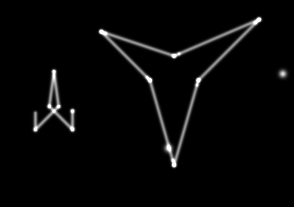
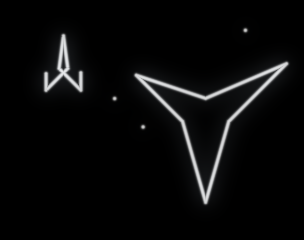
Even beam (an ideal vector display), afterglow-off fix, greyed-out menu items; README: perfect vs faithful
- Tube > Even beam (off): every point as bright and thin as a line, no corner glow, overlapping
  light taking the brighter instead of adding up; dots such as stars stay visible
- Afterglow off: a spot holds for the game's frame + 2 ms (was 34 ms: double copies of moving objects)
- Menu items that only matter while their feature is on are greyed out when it is off
- README chapter 1: real / no analog delays / with the delays, then a perfect vector display next to
  the Vectrex's character

diff --git a/src/frontend/vectrex_emu.py b/src/frontend/vectrex_emu.py
@@ -1030,7 +1030,7 @@ class App:
                 print('renderer unavailable (%s): using the Tk canvas' % e)
         # display settings are kept in Vectrex_EMU.conf; each menu's Reset ... settings to default restores its own
         self.look_keys = [k for k in ('phosphor', 'bloom', 'trail_on', 'trail', 'wob_on', 'wob_strength',
-                                      'mains_hz', 'bend_on', 'bend_strength', 'bend_type', 'curve_on', 'halo_on', 'halo_k', 'phos_spread', 'phos_grow', 'phos_smooth', 'line_gap',
+                                      'mains_hz', 'bend_on', 'bend_strength', 'bend_type', 'curve_on', 'halo_on', 'halo_k', 'even_beam', 'phos_spread', 'phos_grow', 'phos_smooth', 'line_gap',
                                       'art_on', 'art_tint', 'art_room', 'art_print', 'art_parallax',
                                       'scr_on', 'scr_wear', 'scr_damage', 'scr_glint')
                           if self.ren and hasattr(self.ren, k)]
@@ -1230,6 +1230,7 @@ class App:
         R = lambda: self.ren
         C = lambda: self.run.crt
         self.menu_checks = []                                   # (variable, current state) to refresh
+        self.menu_deps = []                                     # (menu, entry, is it usable now) - greyed out when not
         def mac_key(key):
             """macOS: the menus show the Command shortcuts (as text: Tk's bindings do the work, so a key
             never fires twice through a menu key equivalent)"""
@@ -1244,10 +1245,18 @@ class App:
         def item(menu, label, key, cmd):
             key = mac_key(key)
             menu.add_command(label=label, accelerator=key, command=cmd)
+        def dep(menu, on):
+            """the entry just added only matters while `on()` (its feature is on): greyed out otherwise"""
+            self.menu_deps.append((menu, menu.index('end'), on))
         def refresh():
             for v, get in self.menu_checks:
                 try:
                     v.set(bool(get()))
+                except Exception:   # noqa
+                    pass
+            for menu, i, on in self.menu_deps:
+                try:
+                    menu.entryconfigure(i, state='normal' if on() else 'disabled')
                 except Exception:   # noqa
                     pass
         def fill(mb):
@@ -1298,30 +1307,33 @@ class App:
             item(m, 'Reset display settings to default', '', self.reset_display)
             m = tk.Menu(mb, tearoff=0, postcommand=refresh); mb.add_cascade(label='Tube', menu=m)
             check(m, 'Phosphor (afterglow and bloom)', '', lambda: R().phosphor, self.toggle_phosphor)
-            item(m, 'Bloom...', '', lambda: self.slider('bloom'))
-            check(m, 'Afterglow', '', lambda: R().trail_on, lambda: self.flip(self.ren, 'trail_on'))
-            item(m, 'Afterglow length...', '', lambda: self.slider('trail'))
-            item(m, 'Afterglow joining...', '', lambda: self.slider('phos_grow'))
-            item(m, 'Afterglow overlap...', '', lambda: self.slider('phos_smooth'))
+            PH = lambda: R().phosphor; AG = lambda: R().phosphor and R().trail_on
+            item(m, 'Bloom...', '', lambda: self.slider('bloom')); dep(m, PH)
+            check(m, 'Afterglow', '', lambda: R().trail_on, lambda: self.flip(self.ren, 'trail_on')); dep(m, PH)
+            item(m, 'Afterglow length...', '', lambda: self.slider('trail')); dep(m, AG)
+            item(m, 'Afterglow joining...', '', lambda: self.slider('phos_grow')); dep(m, AG)
+            item(m, 'Afterglow overlap...', '', lambda: self.slider('phos_smooth')); dep(m, AG)
             check(m, 'Curved tube', '', lambda: R().curve_on, lambda: self.flip(self.ren, 'curve_on'))
             check(m, 'Corner glow (halo where the beam rests)', '', lambda: R().halo_on, lambda: self.flip(self.ren, 'halo_on'))
-            item(m, 'Corner glow strength...', '', lambda: self.slider('halo_k'))
+            dep(m, lambda: not R().even_beam)
+            item(m, 'Corner glow strength...', '', lambda: self.slider('halo_k')); dep(m, lambda: R().halo_on and not R().even_beam)
+            check(m, 'Even beam (an ideal vector display)', '', lambda: R().even_beam, lambda: self.flip(self.ren, 'even_beam'))
             item(m, 'Line gaps (analog delay)...', '', lambda: self.slider('line_gap'))
             m.add_separator()
             check(m, 'Mains hum wobble', '', lambda: R().wob_on, self.toggle_wobble)
-            item(m, 'Wobble strength...', '', lambda: self.slider('wob_strength'))
+            item(m, 'Wobble strength...', '', lambda: self.slider('wob_strength')); dep(m, lambda: R().wob_on)
             mh = tk.Menu(m, tearoff=0, postcommand=refresh)
-            m.add_cascade(label='Mains', menu=mh)
+            m.add_cascade(label='Mains', menu=mh); dep(m, lambda: R().wob_on)
             for hz, where in zip(vecrender.MAINS_HZ, ('Europe, most of the world', 'USA, Canada, ...')):
                 check(mh, '%d Hz (%s)' % (hz, where), '', lambda hz=hz: R().mains_hz == hz,
                       lambda hz=hz: self.set_mains(hz))
             check(m, 'Brightness bending', '', lambda: R().bend_on, lambda: self.flip(self.ren, 'bend_on'))
             bt = tk.Menu(m, tearoff=0, postcommand=refresh)
-            m.add_cascade(label='Bending type', menu=bt)
+            m.add_cascade(label='Bending type', menu=bt); dep(m, lambda: R().bend_on)
             for i, name in enumerate(vecrender.BEND_TYPES):
                 check(bt, name, '', lambda i=i: R().bend_type % len(vecrender.BEND_TYPES) == i,
                       lambda i=i: self.set_bend_type(i))
-            item(m, 'Bending strength...', '', lambda: self.slider('bend_strength'))
+            item(m, 'Bending strength...', '', lambda: self.slider('bend_strength')); dep(m, lambda: R().bend_on)
             m.add_separator()
             item(m, 'Reset tube settings to default', '', self.reset_tube)
             m = tk.Menu(mb, tearoff=0, postcommand=refresh); mb.add_cascade(label='Overlay', menu=m)
@@ -1331,19 +1343,21 @@ class App:
             item(m, 'Choose overlay...', '', self.choose_art)
             item(m, 'No overlay for this game', '', self.no_art)
             m.add_separator()
-            item(m, 'Tint strength...', '', lambda: self.slider('art_tint'))
-            item(m, 'Room light...', '', lambda: self.slider('art_room'))
-            item(m, 'Printed art brightness...', '', lambda: self.slider('art_print'))
-            check(m, 'Parallax (seen from the usual height)', '', lambda: A('art_parallax', False), lambda: self.flip(self.ren, 'art_parallax'))
+            OV = lambda: bool(A('art_on', False) and A('art', None))           # (an overlay is shown)
+            SC = lambda: OV() and A('scr_on', False)
+            item(m, 'Tint strength...', '', lambda: self.slider('art_tint')); dep(m, OV)
+            item(m, 'Room light...', '', lambda: self.slider('art_room')); dep(m, OV)
+            item(m, 'Printed art brightness...', '', lambda: self.slider('art_print')); dep(m, OV)
+            check(m, 'Parallax (seen from the usual height)', '', lambda: A('art_parallax', False), lambda: self.flip(self.ren, 'art_parallax')); dep(m, OV)
             if getattr(self.ren, 'gprog', None):
                 m.add_separator()
-                check(m, 'Scratches (decades of handling)', '', lambda: A('scr_on', False), self.toggle_scratches)
-                item(m, 'Wear (fine scratches)...', '', lambda: self.slider('scr_wear'))
-                item(m, 'Damage (larger, deeper scratches)...', '', lambda: self.slider('scr_damage'))
-                item(m, 'Glint strength...', '', lambda: self.slider('scr_glint'))
-                item(m, 'New random scratches', '', self.new_scratches)
+                check(m, 'Scratches (decades of handling)', '', lambda: A('scr_on', False), self.toggle_scratches); dep(m, OV)
+                item(m, 'Wear (fine scratches)...', '', lambda: self.slider('scr_wear')); dep(m, SC)
+                item(m, 'Damage (larger, deeper scratches)...', '', lambda: self.slider('scr_damage')); dep(m, SC)
+                item(m, 'Glint strength...', '', lambda: self.slider('scr_glint')); dep(m, SC)
+                item(m, 'New random scratches', '', self.new_scratches); dep(m, SC)
                 m.add_separator()
-            pm = tk.Menu(m, tearoff=0); m.add_cascade(label='Position and size (this overlay)', menu=pm)
+            pm = tk.Menu(m, tearoff=0); m.add_cascade(label='Position and size (this overlay)', menu=pm); dep(m, OV)
             item(pm, 'Left / right...', '', lambda: self.slider('art_dx'))
             item(pm, 'Up / down...', '', lambda: self.slider('art_dy'))
             item(pm, 'Size...', '', lambda: self.slider('art_scale'))
@@ -1352,9 +1366,10 @@ class App:
             item(m, 'Reset overlay settings to default', '', self.reset_overlay)
             m = tk.Menu(mb, tearoff=0, postcommand=refresh); mb.add_cascade(label='Sound', menu=m)
             check(m, 'Vectrex buzz', '', lambda: C().buzz_on, lambda: self.flip(self.run.crt, 'buzz_on'))
-            item(m, 'Buzz volume...', '', lambda: self.slider('buzz_vol'))
+            item(m, 'Buzz volume...', '', lambda: self.slider('buzz_vol')); dep(m, lambda: C().buzz_on)
             check(m, 'Vectrex speaker', '', lambda: C().speaker_on, lambda: self.flip(self.run.crt, 'speaker_on'))
             sm = tk.Menu(m, tearoff=0); m.add_cascade(label='Speech module (VecVoice / VecVox)', menu=sm)
+            dep(m, lambda: self.speech != 'off')                        # (only with a module in port 2)
             item(sm, 'Volume...', 'Ctrl+PgDn / Ctrl+PgUp', lambda: self.slider('voice_vol'))
             check(sm, 'Full-range speakers', '', lambda: C().voice_full, lambda: self.set_voice_full(True))
             check(sm, 'Small speaker', '', lambda: not C().voice_full, lambda: self.set_voice_full(False))
@@ -2652,7 +2667,7 @@ class App:
     LOOK_LABELS = dict(volume=('volume', '%d %%'), bloom=('bloom', '%.2f'), trail=('afterglow length', 'x%.2f'),
                        wob_strength=('wobble strength', '%.3f px'), mains_hz=('mains', '%d Hz'), bend_strength=('bending strength', '%.2f'),
                        buzz_vol=('buzz volume', '%.3f'), phosphor=('phosphor', None), trail_on=('afterglow', None),
-                       curve_on=('curved tube', None), halo_on=('corner glow', None), halo_k=('corner glow strength', '%.3f'), phos_spread=('afterglow softness', '%.2f'), phos_grow=('afterglow joining', '%.2f'), phos_smooth=('afterglow overlap', '%.2f px'), line_gap=('line gaps (stop delay)', '%.1f cycles'), art_on=('overlay', None), art_tint=('overlay tint strength', '%.2f'), art_room=('overlay room light', '%.2f'), art_print=('overlay printed art brightness', '%.2f'), art_parallax=('overlay parallax', None), scr_on=('overlay scratches', None), scr_wear=('scratches: wear', 'x%.2f'), scr_damage=('scratches: damage', 'x%.2f'), scr_glint=('scratches: glint strength', 'x%.2f'), art_dx=('overlay left / right', '%+.3f'), art_dy=('overlay up / down', '%+.3f'), art_scale=('overlay size', 'x%.3f'), wob_on=('mains hum wobble', None), bend_on=('brightness bending', None),
+                       curve_on=('curved tube', None), halo_on=('corner glow', None), halo_k=('corner glow strength', '%.3f'), even_beam=('even beam (an ideal vector display)', None), phos_spread=('afterglow softness', '%.2f'), phos_grow=('afterglow joining', '%.2f'), phos_smooth=('afterglow overlap', '%.2f px'), line_gap=('line gaps (stop delay)', '%.1f cycles'), art_on=('overlay', None), art_tint=('overlay tint strength', '%.2f'), art_room=('overlay room light', '%.2f'), art_print=('overlay printed art brightness', '%.2f'), art_parallax=('overlay parallax', None), scr_on=('overlay scratches', None), scr_wear=('scratches: wear', 'x%.2f'), scr_damage=('scratches: damage', 'x%.2f'), scr_glint=('scratches: glint strength', 'x%.2f'), art_dx=('overlay left / right', '%+.3f'), art_dy=('overlay up / down', '%+.3f'), art_scale=('overlay size', 'x%.3f'), wob_on=('mains hum wobble', None), bend_on=('brightness bending', None),
                        buzz_on=('Vectrex buzz', None), speaker_on=('Vectrex speaker', None), voice_vol=('speech module volume', '%d %%'), voice_full=('speech module speakers', None))
     def show_look(self, what=None, obj=None):
         """save, and show only the setting that changed in the title bar for 2 s"""

diff --git a/src/frontend/vecrender.py b/src/frontend/vecrender.py
@@ -635,7 +635,7 @@ BEND_TYPES = ['grow', 'shift', 'grow+shift']
 PHOS_GAIN = 1.0 / (1.0 - 0.40)  # a still picture as bright as with the earlier model (afterglow 0.40)
 PHOS_HOLD = 0.021               # a lit spot is at full brightness at least this long (a 50 fps frame;
                                 #  longer for a slower game: see hold())
-PHOS_HOLD_OFF = 0.034           # trail off: a spot holds until the next frames, then is gone
+PHOS_HOLD_OFF = 0.021           # trail off: a spot holds until the game draws it again, then is gone
 PHOS_A = ((0.1404, 0.0454), (0.0582, 0.350))   # the measured afterglow (share, time constant s)
 # the afterglow joins up: a fading spot (older than the hold) spreads to its neighbours each display frame,
 # keeping PHOS_GROW of its brightness, so the copies a moving object leaves join into one smooth trail -
@@ -926,6 +926,8 @@ class GLBloomRenderer(GLRenderer):
         self.bend_type = 0           # index into BEND_TYPES
         self.curve_on = True         # the curved tube (C, see CURVE_SHADER; on by default: the owner's choice)
         self.halo_on = True          # the glow around resting spots (Tube > Corner glow, see BEAM_HALO_W)
+        self.even_beam = False       # Tube > Even beam: an ideal vector display - every point as bright and wide as a
+                                     #  line, no corner glow, overlapping light not adding up (off: the real tube)
         self.halo_k = BEAM_HALO_K    # its brightness (Tube > Corner glow strength)
         self.phos_spread = PHOS_SPREAD  # the afterglow's softness (0; not in the menu)
         self.phos_grow = PHOS_GROW      # how the afterglow joins up (Tube > Afterglow joining)
@@ -1292,7 +1294,7 @@ class GLBloomRenderer(GLRenderer):
             return None
         halos = [(ln[0], ln[1], ln[2], ln[3], (ln[4] & 127) | 256) + tuple(ln[5:]) for ln in lines
                  if len(ln) > 5 and ln[0] == ln[2] and ln[1] == ln[3] and ln[5] >= 64 and (ln[4] & 127)] \
-            if getattr(self, 'halo_on', True) else None
+            if getattr(self, 'halo_on', True) and not getattr(self, 'even_beam', False) else None
         if halos:
             lines = halos + list(lines)                    # (drawn first: the spots and lines go over them)
         n = len(lines)
@@ -1375,6 +1377,8 @@ class GLBloomRenderer(GLRenderer):
                 bl = min(1.0, max(0.0, (cyc * zk - BEAM_BLOOM_E0) / (BEAM_BLOOM_E1 - BEAM_BLOOM_E0)))
                 fw = BEAM_HALO_W * zw * (1.0 + (BEAM_BLOOM_W - 1.0) * bl) * cwidth
                 k = getattr(self, 'halo_k', BEAM_HALO_K) * min(1.0, cyc / BEAM_HALO_C) * (1.0 + (BEAM_BLOOM_H - 1.0) * bl)
+            elif getattr(self, 'even_beam', False):       # an ideal display: lines and points alike
+                k = BEAM_LINE
             elif lp / gp > 0.05:
                 e = cyc / (lp / gp)                        # cycles per game pixel
                 k = BEAM_LINE * (1.0 - BEAM_SPEED * exp(-e / 0.8))   # fast sweeps slightly fainter
@@ -1414,12 +1418,13 @@ class GLBloomRenderer(GLRenderer):
     # ---- the phosphor in real time (see PHOS_GAIN)
     def hold(self):
         """how long a lit spot stays at full brightness: until the game draws it again - its longest
-        recent frame (at least PHOS_HOLD) plus 1 ms; afterglow off: plus a display frame, then dark.
+        recent frame (at least PHOS_HOLD) plus 1 ms; afterglow off: the same plus 2 ms, then dark at once
+        (longer kept the last copy of a moving object at full brightness next to the new one).
         (A 40 fps game redraws only every 25 ms: a fixed 21 ms hold dimmed what it drew first.)"""
         per = min(0.1, max(getattr(self, 'periods', None) or [0.02]))
         if self.trail_on:
             return max(PHOS_HOLD, per + 0.001)
-        return max(PHOS_HOLD_OFF, per + 0.014)
+        return max(PHOS_HOLD_OFF, per + 0.002)
 
     def _phos_uniforms(self, u):
         """the afterglow curve's settings for a shader using PHOS_FUNC"""
@@ -1458,7 +1463,10 @@ class GLBloomRenderer(GLRenderer):
             self.BindFB(GL_FRAMEBUFFER, self.out); gl.glViewport(0, 0, w, h)
             gl.glClearColor(0, 0, 0, 1); gl.glClear(GL_COLOR_BUFFER_BIT)
             gl.glEnable(GL_BLEND); gl.glBlendFunc(GL_SRC_ALPHA, GL_ONE)
+            even = getattr(self, 'even_beam', False) and self.BlendEq
+            if even: self.BlendEq(0x8008)                 # (even beam: the brighter light, not the sum)
             self._draw_built(self._build(imm) if imm else self.last)
+            if even: self.BlendEq(0x8006)
             self.young = []; self.T_prev = T
             self._art()
             self._hud()
@@ -1471,7 +1479,7 @@ class GLBloomRenderer(GLRenderer):
         self.BindFB(GL_FRAMEBUFFER, self.F[1]); gl.glViewport(0, 0, w, h)
         gl.glClearColor(0, 0, 0, 0); gl.glClear(GL_COLOR_BUFFER_BIT)
         gl.glEnable(GL_BLEND); self.BlendFuncSep(GL_ONE, GL_ONE, GL_ONE, GL_ONE)
-        self.BlendEqSep(0x8006, 0x8008)                   # (add, max)
+        self.BlendEqSep(0x8008 if getattr(self, 'even_beam', False) else 0x8006, 0x8008)   # (add - even beam: max -, max)
         keep = []
         for f in self.young:
             b, t0, t1, done = f
@@ -1482,7 +1490,7 @@ class GLBloomRenderer(GLRenderer):
         if imm:                                           # (imm_max: one even line, no bright joints)
             if getattr(self, 'imm_max', False): self.BlendEq(0x8008)
             self._draw_built(self._build(imm, load=False), 0.0, 1.0, imm=True)
-        self.BlendEq(0x8006)
+        self.BlendEq(0x8006)                              # (and back to adding, for everything else)
         self.young = keep
         # 2. the phosphor image: aged, lit again where the fresh light is brighter
         od = getattr(self, 'decay_override', None)        # (switching off: frozen, dimmed by the curve)

diff --git a/src/frontend/help_text.py b/src/frontend/help_text.py
@@ -144,6 +144,10 @@ TOPICS = [
          "dot such as a shot or a star - the screen glows softly around the spot, as the light scatters in the "
          "tube's thick glass. It also softens the tiny dark gaps a Vectrex leaves at some corners."),
 ('item', 'Corner glow strength...', "How strong that glow is (right click on the slider: the default)."),
+('item', 'Even beam (an ideal vector display)', "Off by default. Every point as bright and as thin as the lines: "
+         "no brighter, fatter corners and dots where the beam rests, no corner glow, no fainter fast lines, and "
+         "where lines overlap they do not add up. A vector display without the tube's character - dots such as "
+         "stars stay visible, just no brighter than a line. The gaps stay: they come from the timing."),
 ('item', 'Line gaps (analog delay)...', "The small gaps at line ends and corners: on a real Vectrex the beam "
          "stops moving a few cycles after the game switches it off, and how many differs from one machine to "
          "the next. 12.3 cycles (the default) is a well-tuned Vectrex; 9.3 nearly closes the corners, 15.3 "

diff --git a/README.md b/README.md
@@ -176,10 +176,10 @@ the tube:
 
 <p align="center">
 <img src="docs/images/real_ship_mine.jpg" height="210" alt="Mine Storm's ship and a mine on a real Vectrex">
-<img src="docs/images/emu_ship_mine_perfect.png" height="210" alt="the same in an ideal emulation, without gaps">
+<img src="docs/images/emu_ship_mine_nogaps.png" height="210" alt="the same without the analog delays: no gaps">
 <img src="docs/images/emu_ship_mine_gaps.png" height="210" alt="the same in Vectrex_EMU with the delays"><br>
-<em>Left: a real Vectrex (one with unusually wide gaps). Middle: an ideal emulation - the CPU exact, the
-analog side perfect - with no gaps at all. Right: Vectrex_EMU with the delays, set to this machine's wide
+<em>Left: a real Vectrex (one with unusually wide gaps). Middle: the CPU exact, but the analog side
+without its delays - every corner closes. Right: Vectrex_EMU with the delays, set to this machine's wide
 gaps: the same short lines and open corners.</em>
 </p>
 
@@ -188,6 +188,17 @@ line - the phosphor gets more light and shines as a bright dot, with a soft glow
 lines come out thinner and dimmer than slow ones, because the beam spends less time on each spot. The
 emulator draws every line with the beam's real speed and every pause with its real length, so these
 follow by themselves.
+
+That is the difference between a *perfect* vector display and a Vectrex. An emulator can easily draw
+the perfect one - every line equally thin and bright, no dots, no glow, every shape closed - and many
+do. It looks clean, and it is exactly what Vectrex_EMU avoids: the character is in the imperfections.
+
+<p align="center">
+<img src="docs/images/emu_ship_mine_perfect.png" height="230" alt="a perfect vector display: even lines, no dots">
+<img src="docs/images/emu_ship_mine.png" height="230" alt="the same with the Vectrex's character"><br>
+<em>Left: a perfect vector display - what we avoid. Right: the Vectrex's character, as Vectrex_EMU draws
+it. (Anyone who prefers the perfect look can have it: <b>Tube > Even beam</b>.)</em>
+</p>
 
 <p align="center">
 <img src="docs/images/real_mothership.jpg" width="380" alt="the mothership on a real Vectrex">

diff --git a/RELEASE_NOTES.md b/RELEASE_NOTES.md
@@ -59,11 +59,17 @@ Updated 2026-10-20 (the same version, rebuilt):
 - The power-off flash stays inside the visible picture.
 
 **Tube**
+- Even beam (off by default): an ideal vector display - every point as bright and thin as a line, no corner
+  glow, overlapping light not adding up; for those who want the perfect look instead of the tube's.
+- Afterglow off no longer shows the last copy of a moving object next to the new one (it held 34 ms, now
+  the game's frame + 2 ms).
 - Line gaps: the integrators' stop delay (9.3 - 12.3 - 15.3 cycles), live.
 - Afterglow softness taken out of the menu (it had no visible effect).
 
 **Menus, keys, settings**
 - Each menu has its own reset (Vectrex, display, tube, overlay, sound), resetting only that menu.
+- Menu items greyed out while their feature is off (the afterglow's sliders with the afterglow off, the
+  scratch sliders with the scratches off, Buzz volume with the buzz off, the speech module without one...).
 - Sliders: the default in the middle, 0 to twice the default; buzz default 0.152.
 - Keys: + / - / 0 window size, 9 real size, P pause, L ROM browser, O overlay - without Ctrl; only Ctrl+E
   (eject) and Ctrl+R (RESET) need Ctrl. These keys can not be given to a player.
